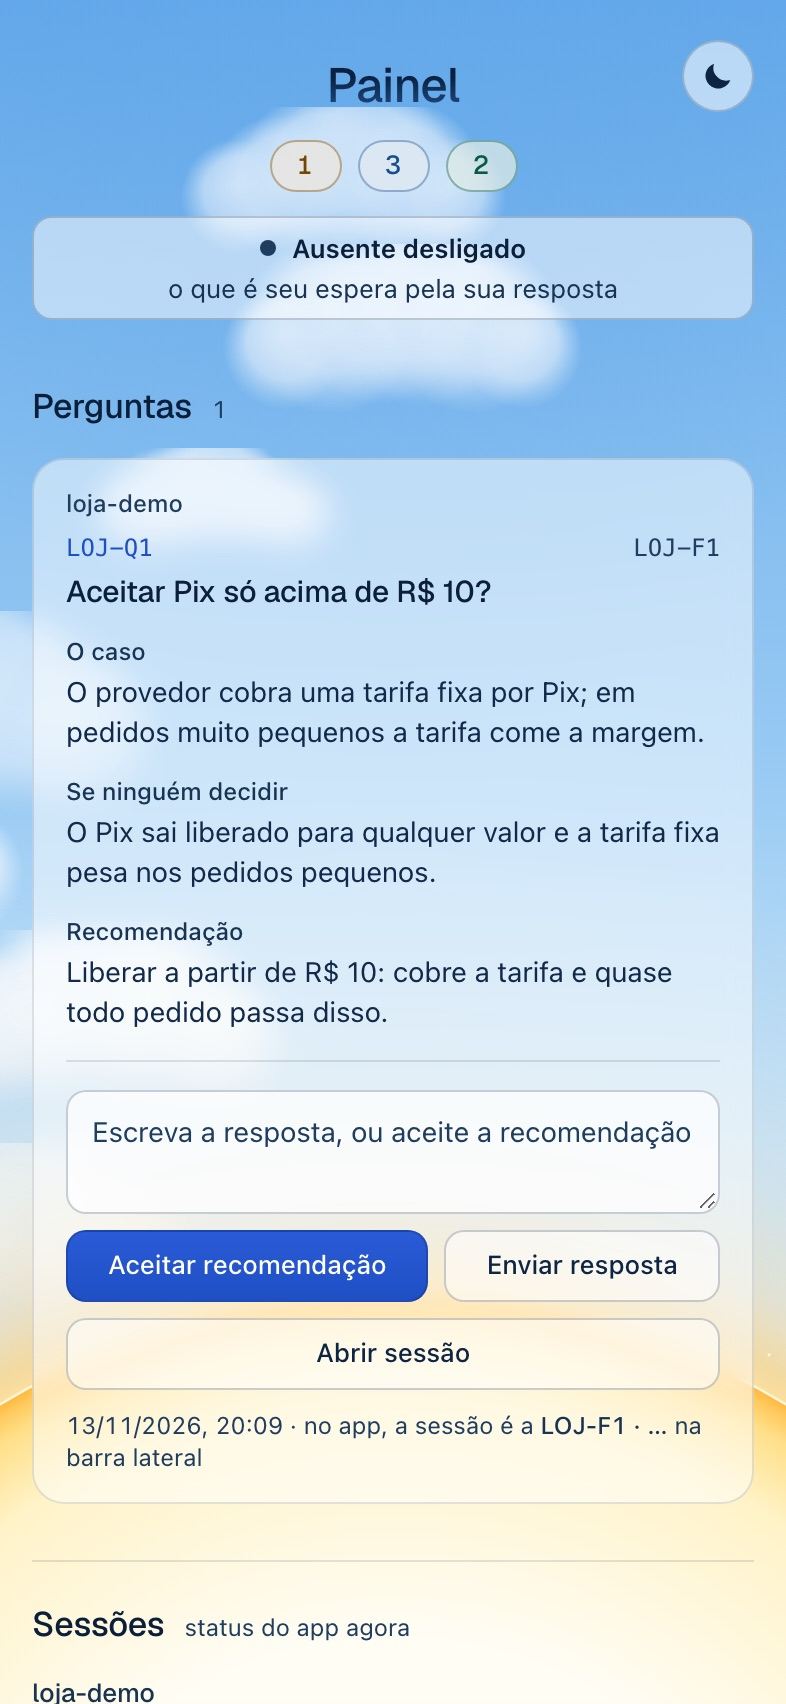
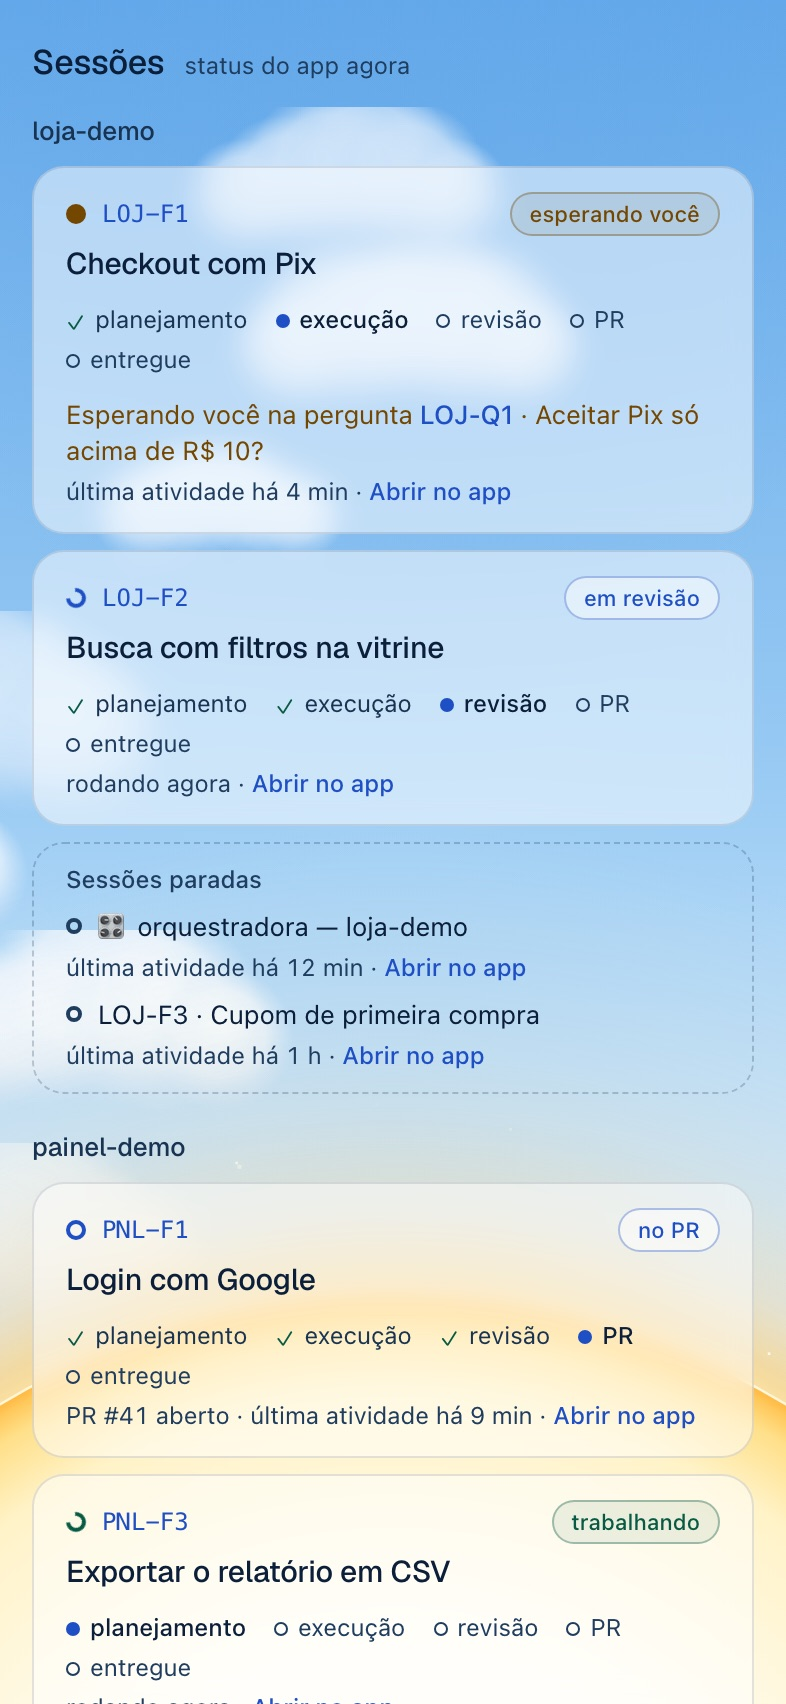
docs: README destaca as sessões do Painel e mantém a captura da pergunta

diff --git a/README.md b/README.md
@@ -7,10 +7,16 @@ Você faz o pedido uma vez. A **orquestradora** quebra o pedido em itens e abre 
 Junto vêm os padrões da stack (React, TypeScript, Next, Postgres, Google Cloud), uma barra acima do prompt com o relógio do cache e os botões do kit, e um painel para trocar de conta do app sem Sign out.
 
 <p align="center">
-  <img src="docs/imagens/painel-noite.jpg" alt="O Painel do kit no celular, tema noite: uma pergunta aberta com o caso, o que acontece se ninguém decidir e a recomendação, e o começo da seção Sessões" width="300">
-  <img src="docs/imagens/painel-dia.jpg" alt="O mesmo Painel no celular, tema dia, com céu azul e nuvens" width="300">
+  <img src="docs/imagens/painel-noite.jpg" alt="O Painel no celular, tema noite: a seção Sessões com seis sessões de dois projetos, cada uma com código, selo de estado, título e a esteira planejamento → execução → revisão → PR → entregue; uma esperando você, uma em revisão, uma com PR aberto, uma planejando e duas paradas" width="300">
+  <img src="docs/imagens/painel-dia.jpg" alt="A mesma seção Sessões do Painel no celular, tema dia, com céu azul e nuvens" width="300">
 </p>
-<p align="center"><sub>O Painel (<code>http://127.0.0.1:4747</code>) nos dois céus, noite e dia. O botão no canto troca o tema, e a escolha vale para a barra e para o painel de contas. Dados de exemplo.</sub></p>
+<p align="center"><sub>As sessões de cada projeto no Painel: quem está planejando, executando, em revisão ou com PR aberto, quem espera você e quem está parado.</sub></p>
+
+<p align="center">
+  <img src="docs/imagens/perguntas-noite.jpg" alt="O Painel no celular, tema noite: uma pergunta aberta com o caso, o que acontece se ninguém decidir, a recomendação e os botões Aceitar recomendação, Enviar resposta e Abrir sessão" width="300">
+  <img src="docs/imagens/perguntas-dia.jpg" alt="A mesma pergunta no Painel, tema dia" width="300">
+</p>
+<p align="center"><sub>E o que espera você: a pergunta completa, respondida com um clique. O Painel (<code>http://127.0.0.1:4747</code>) nos dois céus, noite e dia; o botão no canto troca o tema, e a escolha vale para a barra e para o painel de contas. Dados de exemplo.</sub></p>
 
 ---
 
